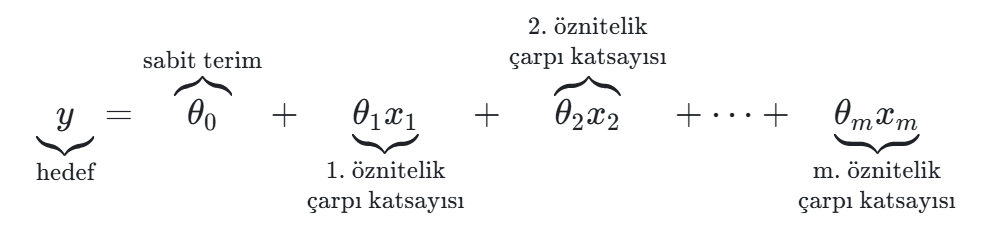
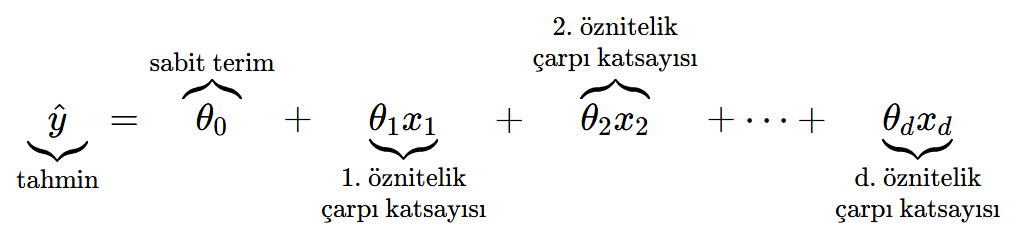
Vize kapsamındaki hata ve tutarsızlıklar düzeltildi
- WEKA Odds Ratios yorumu (tablo tested_negative için), IQR filtresi varsayılanı, PlainText prediction sütunu
- Normal denklem, OOB skoru, RMSE/MAE ilişkisi, polinom regresyon tanımı
- Bahis oranı (odds) ve logit açıklaması; R² ve p-değeri için kısa tanımlar; dış değerleme uyarısı
- Gösterim: lineer modelde ŷ ve d (02.png yeniden üretildi); fold için "kat", stratum için "tabaka"
- Nedensellik ifadeleri, AUC tablosu, TPR/TNR açılımları, Kappa ve AUC örnekleri
- WEKA veri yolları netleştirildi; k-NN deneyinde şarap verisi yerine meme kanseri verisi
- Kitap diline uymayan ifadeler düzeltildi; index.html'den kullanılmayan mermaid kaldırıldı

diff --git a/index.html b/index.html
@@ -6,10 +6,6 @@
   <meta name="viewport" content="width=device-width, initial-scale=1.0">
   <link rel="stylesheet" href="https://cdn.jsdelivr.net/npm/docsify@4/lib/themes/vue.css">
   <style>
-    .mermaid {
-      text-align: center;
-      margin: 20px 0;
-    }
     /* GitHub uyarı kutuları (> [!NOTE], > [!WARNING], > [!CAUTION] …) */
     .markdown-section blockquote.uyari { border-left: 5px solid; border-radius: 4px; padding: 10px 16px; margin: 16px 0; color: #24292f; }
     .markdown-section blockquote.uyari p { margin: 6px 0; font-weight: 400; }
@@ -43,9 +39,6 @@
       markdown: {
         renderer: {
           code: function(code, lang) {
-            if (lang === 'mermaid') {
-              return '<div class="mermaid">' + code + '</div>';
-            }
             // ```math blokları (GitHub'ın display formül biçimi) → KaTeX ile çiz
             if (lang === 'math' && window.katex) {
               return '<div class="math-blok">' +
@@ -67,31 +60,6 @@
   <script src="https://cdn.jsdelivr.net/npm/katex@0.16.9/dist/katex.min.js"></script>
   <script src="https://cdn.jsdelivr.net/npm/docsify-katex@1.4.4/dist/docsify-katex.js"></script>
   
-  <!-- Mermaid -->
-  <script src="https://cdn.jsdelivr.net/npm/mermaid@10.6.1/dist/mermaid.min.js"></script>
-  <script>
-    mermaid.initialize({ 
-      startOnLoad: false,
-      theme: 'default',
-      securityLevel: 'loose',
-      flowchart: {
-        useMaxWidth: true,
-        htmlLabels: true
-      }
-    });
-    
-    // Docsify hook to render mermaid after page load
-    if (window.$docsify) {
-      window.$docsify.plugins = [].concat(function(hook) {
-        hook.doneEach(function() {
-          mermaid.run({
-            querySelector: '.mermaid'
-          });
-        });
-      }, window.$docsify.plugins || []);
-    }
-  </script>
-  
   <!-- Kod renklendirme -->
   <script src="https://cdn.jsdelivr.net/npm/prismjs@1/components/prism-python.min.js"></script>
   <script src="https://cdn.jsdelivr.net/npm/prismjs@1/components/prism-r.min.js"></script>
@@ -101,7 +69,7 @@
   <!-- Arama -->
   <script src="https://cdn.jsdelivr.net/npm/docsify@4/lib/plugins/search.min.js"></script>
   
-  <!-- Sayfa içi navigasyon -->
+  <!-- Kod kopyalama düğmesi -->
   <script src="https://cdn.jsdelivr.net/npm/docsify-copy-code@2"></script>
 </body>
 </html>

diff --git a/images/formuller/README.md b/images/formuller/README.md
@@ -12,10 +12,10 @@ Bu klasördeki PNG dosyaları, `Ders_Notu.md` içindeki açıklamalı formüller
 
 ## 02.png
 
-*Ye eşittir teta sıfır artı teta bir iks bir artı teta iki iks iki artı … artı teta em iks em.*
+*Ye şapka eşittir teta sıfır artı teta bir iks bir artı teta iki iks iki artı … artı teta de iks de.*
 
 ```math
-\underbrace{y}_{\text{hedef}} = \overbrace{\theta_0}^{\text{sabit terim}} + \underbrace{\theta_1 x_1}_{\substack{\text{1. öznitelik}\\[2pt]\text{çarpı katsayısı}}} + \overbrace{\theta_2 x_2}^{\substack{\text{2. öznitelik}\\[2pt]\text{çarpı katsayısı}}} + \dots + \underbrace{\theta_m x_m}_{\substack{\text{m. öznitelik}\\[2pt]\text{çarpı katsayısı}}}
+\underbrace{\hat{y}}_{\text{tahmin}} = \overbrace{\theta_0}^{\text{sabit terim}} + \underbrace{\theta_1 x_1}_{\substack{\text{1. öznitelik}\\[2pt]\text{çarpı katsayısı}}} + \overbrace{\theta_2 x_2}^{\substack{\text{2. öznitelik}\\[2pt]\text{çarpı katsayısı}}} + \dots + \underbrace{\theta_d x_d}_{\substack{\text{d. öznitelik}\\[2pt]\text{çarpı katsayısı}}}
 ```
 
 ## 03.png
